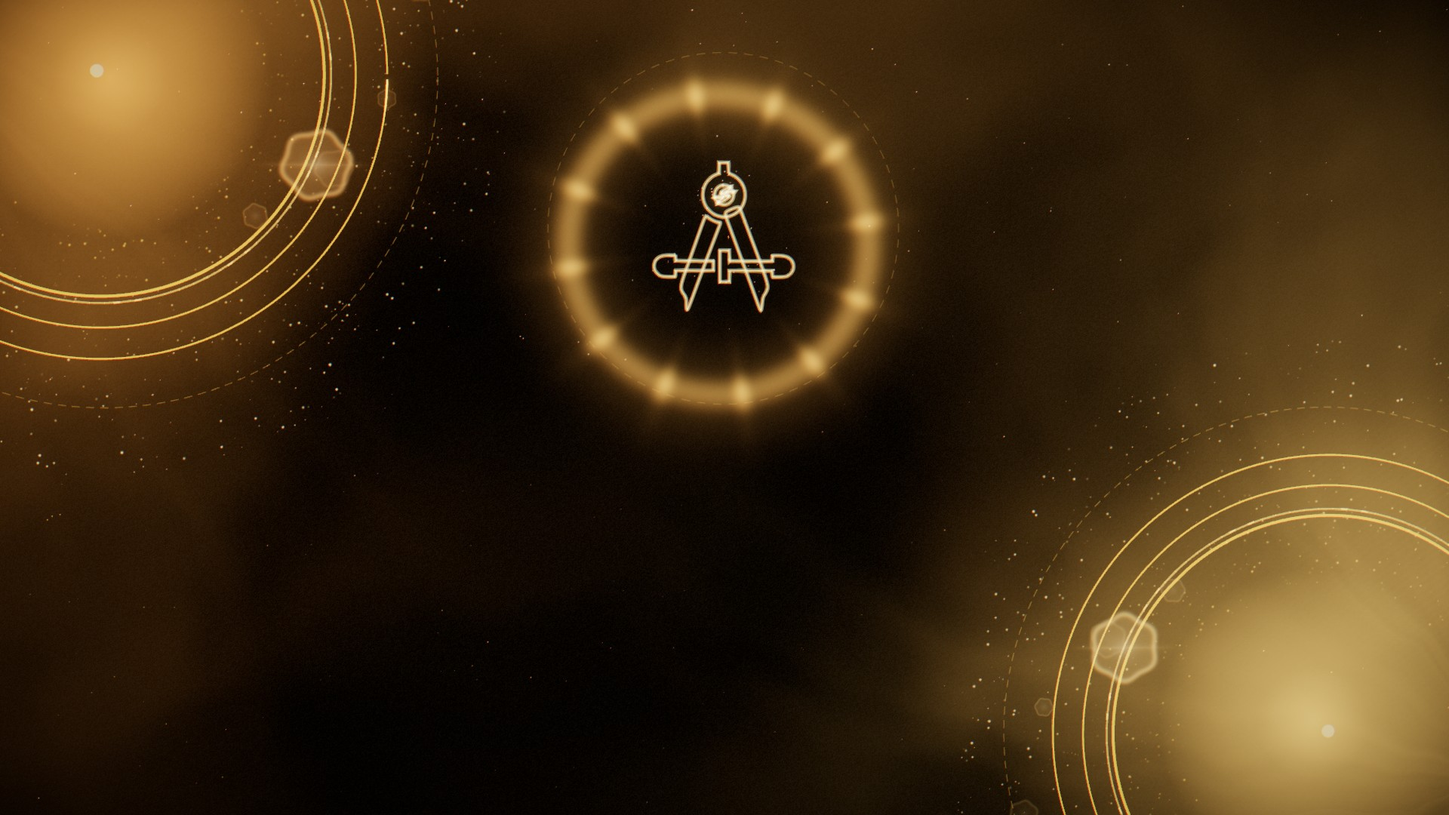
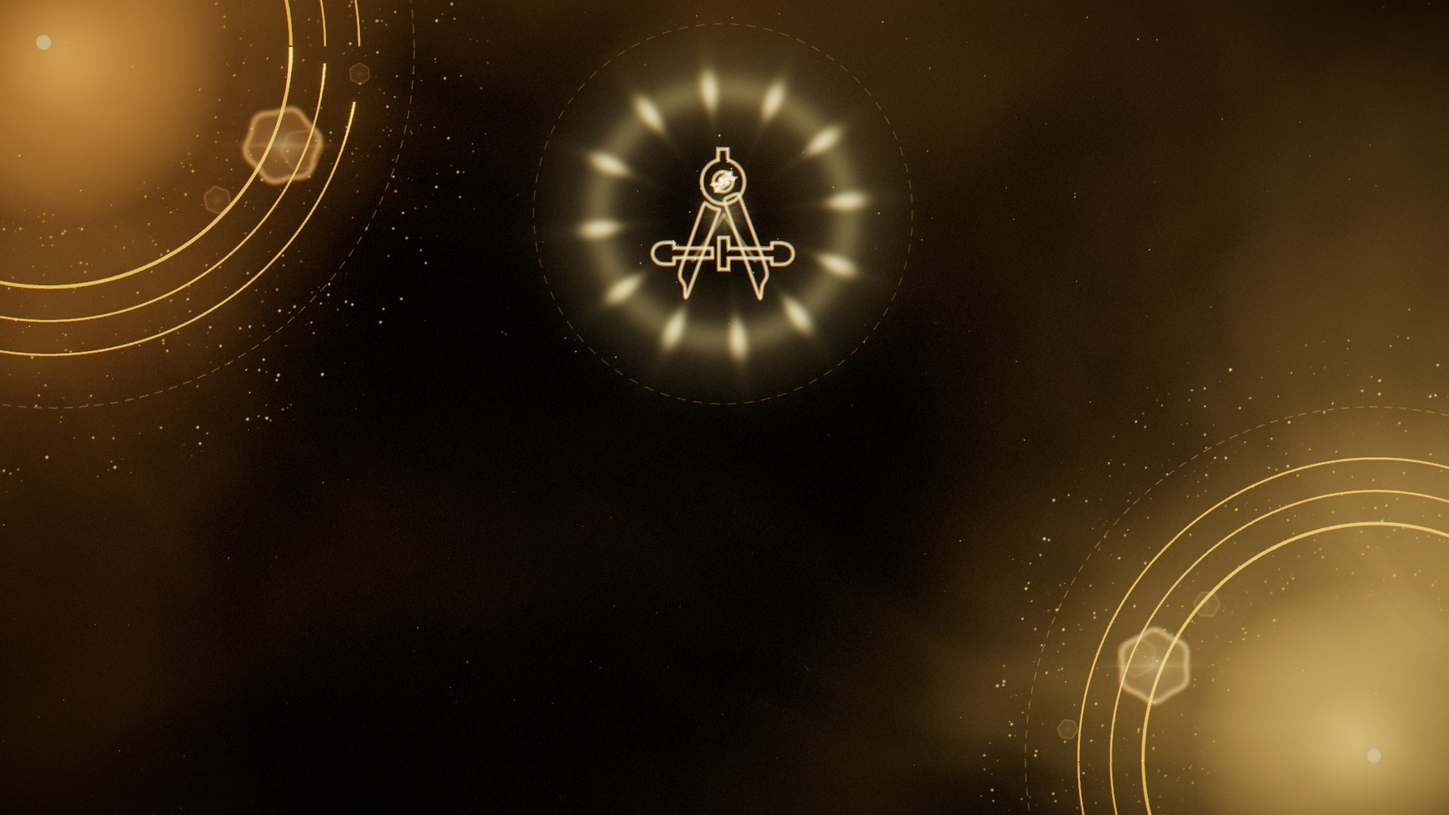
Refine intro opening and finale accents

diff --git a/src/opening-pulse.js b/src/opening-pulse.js
@@ -1,7 +1,8 @@
 import * as THREE from "three";
 
-// Только для первого ролика: циркуль становится источником расходящегося
-// золотого светового фронта в момент превращения чертежа в металл.
+// Только для первого ролика. Один полноэкранный аддитивный слой ведёт три
+// связанных такта: игла света находит точку чертежа, превращение в золото
+// отпускает световую волну, последняя буква запирает композицию штрихом.
 // Плоскость за знаком: не заслоняет гравировку и никогда не белит титры.
 const vertex = /* glsl */ `
   varying vec2 vUv;
@@ -10,51 +11,131 @@ const vertex = /* glsl */ `
     gl_Position = projectionMatrix * modelViewMatrix * vec4(position, 1.0);
   }
 `;
+
 const fragment = /* glsl */ `
+  precision highp float;
   varying vec2 vUv;
   uniform float uTravel;
   uniform float uEnergy;
+  uniform float uTrace;
+  uniform float uTraceTravel;
+  uniform float uSeal;
+  uniform float uSealTravel;
+  uniform vec2 uWaveCenter;
+  uniform vec2 uTraceTarget;
   uniform vec3 uGold;
+
+  float segmentDistance(vec2 p, vec2 a, vec2 b) {
+    vec2 ab = b - a;
+    float h = clamp(dot(p - a, ab) / max(dot(ab, ab), 1e-6), 0.0, 1.0);
+    return length(p - a - ab * h);
+  }
+
   void main() {
-    vec2 p = (vUv - 0.5) * vec2(7.4, 5.0);
-    float r = length(p);
-    float a = atan(p.y, p.x);
+    float cueStrength = uEnergy + uTrace + uSeal;
+    if (cueStrength < 0.0001) discard;
+
+    // Мировые координаты относительно центра кадра; плоскость неподвижна,
+    // поэтому подпись и холодный старт не дрейфуют вместе с логотипом.
+    vec2 p = (vUv - 0.5) * vec2(9.6, 5.4);
+    vec2 q = p - uWaveCenter;
+    float r = length(q);
+    float a = atan(q.y, q.x);
+
+    // 1. Игла света приходит из верхнего левого источника точно в первую
+    // точку построительной окружности. Свет живёт на конце иглы, не в кадре.
+    vec2 source = vec2(-4.35, 2.35);
+    vec2 target = uTraceTarget;
+    vec2 tip = mix(source, target, max(uTraceTravel, 0.001));
+    vec2 shaft = tip - source;
+    float along = clamp(dot(p - source, shaft) / max(dot(shaft, shaft), 1e-6), 0.0, 1.0);
+    float needle = 1.0 - smoothstep(0.004, 0.013, segmentDistance(p, source, tip));
+    float tipHalo = exp(-pow(length(p - tip) / 0.13, 2.0));
+    float tipCore = exp(-pow(length(p - tip) / 0.028, 2.0));
+    float puncture = exp(-pow((length(p - target) - 0.09) * 52.0, 2.0)) *
+      smoothstep(0.76, 1.0, uTraceTravel);
+    float traceLight = (needle * 0.19 * (0.3 + 0.7 * along) +
+      tipHalo * 0.30 + tipCore * 0.52 + puncture * 0.16) * uTrace;
+
+    // 2. Волна раскрытия: не сплошной ореол, а фронт из двенадцати лучей и две
+    // тонкие направляющие, повторяющие разведённые ножки циркуля.
     float front = 0.14 + uTravel * 2.35;
     float edge = exp(-pow((r - front) * 11.0, 2.0));
     float atmosphere = exp(-pow((r - front) * 3.2, 2.0));
-    // 12 мягких лучей идут за волной, как разметка циркулем, а не вспышка
-    // поверх всего кадра. Их движение привязано только к абсолютному времени.
     float rays = pow(0.5 + 0.5 * cos(a * 12.0 - uTravel * 5.0), 8.0);
-    float light = edge * (0.55 + 0.45 * rays) + atmosphere * 0.13;
-    gl_FragColor = vec4(uGold * (0.7 + 0.3 * rays), light * uEnergy);
+    float ring = edge * (0.18 + 0.82 * rays) + atmosphere * 0.10;
+    float reach = max(uTravel, 0.001);
+    float leftLeg = 1.0 - smoothstep(0.004, 0.018,
+      segmentDistance(q, vec2(0.0), vec2(-0.72, -1.05) * reach));
+    float rightLeg = 1.0 - smoothstep(0.004, 0.018,
+      segmentDistance(q, vec2(0.0), vec2(0.72, -1.05) * reach));
+    float legs = (leftLeg + rightLeg) * exp(-r * 0.62) * 0.30;
+    float heart = exp(-r * r * 75.0) * 0.20;
+    float waveLight = (ring + legs + heart) * uEnergy;
+
+    // 3. Подпись: из центра разводится тонкая линия и мягкое перо проходит
+    // по строке. Слой позади букв, поэтому текст остаётся контрастным.
+    float titleY = p.y + 0.27;
+    float halfSpan = mix(0.12, 3.05, uSealTravel);
+    float spanMask = 1.0 - smoothstep(halfSpan, halfSpan + 0.08, abs(p.x));
+    float hairline = exp(-pow(titleY * 155.0, 2.0)) * spanMask * 0.30;
+    float ends = exp(-pow((abs(p.x) - halfSpan) * 30.0, 2.0)) *
+      exp(-pow(titleY * 32.0, 2.0)) * 0.44;
+    float penX = mix(-2.85, 2.85, uSealTravel);
+    float pen = exp(-pow((p.x - penX) * 8.0, 2.0)) *
+      exp(-pow(titleY * 17.0, 2.0)) * 0.17;
+    float sealLight = (hairline + ends + pen) * uSeal;
+
+    float alpha = clamp(traceLight + waveLight + sealLight, 0.0, 1.0);
+    vec3 color = uGold * (0.72 + 0.28 * rays);
+    color = mix(color, vec3(1.0, 0.87, 0.63),
+      clamp(tipCore * 0.34 + (ends + pen) * 0.12, 0.0, 0.5));
+    gl_FragColor = vec4(color, alpha);
   }
 `;
 
+/** @param {string} [color] — цвет из палитры активной сцены. */
 export class OpeningPulse {
-  constructor() {
+  constructor(color = "#e0b25a") {
     this.uniforms = {
       uTravel: { value: 0 },
       uEnergy: { value: 0 },
-      uGold: { value: new THREE.Color(0xf8bc67) },
+      uTrace: { value: 0 },
+      uTraceTravel: { value: 0 },
+      uSeal: { value: 0 },
+      uSealTravel: { value: 0 },
+      uWaveCenter: { value: new THREE.Vector2(0, 1.1) },
+      uTraceTarget: { value: new THREE.Vector2(-0.76, 1.86) },
+      uGold: { value: new THREE.Color(color) },
     };
     this.mesh = new THREE.Mesh(
-      new THREE.PlaneGeometry(7.4, 5.0),
+      new THREE.PlaneGeometry(9.6, 5.4),
       new THREE.ShaderMaterial({
-        uniforms: this.uniforms, vertexShader: vertex, fragmentShader: fragment,
-        transparent: true, depthTest: false, depthWrite: false,
-        blending: THREE.AdditiveBlending, toneMapped: false,
+        uniforms: this.uniforms,
+        vertexShader: vertex,
+        fragmentShader: fragment,
+        transparent: true,
+        depthTest: false,
+        depthWrite: false,
+        blending: THREE.AdditiveBlending,
+        toneMapped: false,
       })
     );
-    this.mesh.position.set(0, 1.1, -1);
+    this.mesh.position.set(0, 0, -1);
     this.mesh.renderOrder = -2;
     this.mesh.frustumCulled = false;
     this.mesh.visible = false;
   }
 
-  update(cue, y) {
-    this.mesh.visible = cue.energy > 0.001;
-    this.mesh.position.y = y;
+  update(cue, waveCenter, traceTarget) {
+    this.mesh.visible = Math.max(cue.energy, cue.trace, cue.seal) > 0.001;
     this.uniforms.uTravel.value = cue.travel;
     this.uniforms.uEnergy.value = cue.energy;
+    this.uniforms.uTrace.value = cue.trace;
+    this.uniforms.uTraceTravel.value = cue.traceTravel;
+    this.uniforms.uSeal.value = cue.seal;
+    this.uniforms.uSealTravel.value = cue.sealTravel;
+    this.uniforms.uWaveCenter.value.set(waveCenter.x, waveCenter.y);
+    this.uniforms.uTraceTarget.value.set(traceTarget.x, traceTarget.y);
   }
 }

diff --git a/src/timeline.js b/src/timeline.js
@@ -1,4 +1,6 @@
 // Чистая модель фаз цикла; используется и в сцене, и в тестах.
+import { CAP_MAX } from "./caption.js";
+
 const clamp01 = (x) => Math.min(1, Math.max(0, x));
 const smooth = (a, b, x) => {
   const t = clamp01((x - a) / (b - a));
@@ -61,12 +63,18 @@ export function computePhase(t, tl) {
   return { name, draw, reveal, outline, fill, emergeT, grow, local, cycle, rings };
 }
 
-/** Фирменный жест: точка обводит орбиту и передаёт движение контуру логотипа. */
-export function plotSequence(phase, tl) {
+/** Общие такты построительной точки: игла интро приходит ровно в start. */
+export function plotTiming(tl) {
   const D = tl.drawDuration, E = tl.emergeDuration;
   const start = Math.min(0.32, D * 0.12);
   const end = Math.max(start + 0.1, D * 0.60);
   const transferEnd = Math.max(end + 0.05, D * 0.83);
+  return { D, E, start, end, transferEnd };
+}
+
+/** Фирменный жест: точка обводит орбиту и передаёт движение контуру логотипа. */
+export function plotSequence(phase, tl) {
+  const { D, E, start, end, transferEnd } = plotTiming(tl);
   const sweep = smooth(start, end, phase.local);
   const transfer = smooth(end, transferEnd, phase.local);
   const opacity = smooth(start, start + Math.min(0.35, D * 0.14), phase.local) *
@@ -88,9 +96,9 @@ export function heroGlint(phase, tl) {
   return { intensity, position };
 }
 
-/** Первый ролик: при передаче построительной линии знаку световая волна
- * разбегается по сцене и камера плавно входит в готовую композицию.
- * Огибающая тождественно нулевая на удержании и на пиксельном шве. */
+/** Первый ролик: три связанных такта — игла света находит точку чертежа,
+ * превращение в золото отпускает световую волну, а последняя буква запирает
+ * композицию коротким штрихом. Все огибающие нулевые на удержании и на шве. */
 export function openingAccent(phase, tl) {
   const start = tl.drawDuration * 0.92;
   const span = Math.max(0.25, tl.emergeDuration * 0.77);
@@ -98,7 +106,24 @@ export function openingAccent(phase, tl) {
   const energy = smooth(0, 0.18, travel) * (1 - smooth(0.60, 1, travel));
   const dolly = smooth(tl.drawDuration * 0.3, start, phase.local) *
     (1 - smooth(start, start + tl.emergeDuration * 0.95, phase.local));
-  return { travel, energy, dolly };
+  // Холодный старт: тонкая чертёжная игла входит из верхнего левого света
+  // и приходит в точку будущей окружности раньше, чем линия начинает движение.
+  const traceArrival = plotTiming(tl).start;
+  const traceSpan = Math.max(0.12, traceArrival - 0.06);
+  const traceTravel = clamp01((phase.local - 0.06) / traceSpan);
+  // Игла должна дойти до точки и только потом раствориться: огибающая гаснет
+  // по абсолютному времени после прибытия, а не до конца travel.
+  const trace = smooth(0.05, 0.25, traceTravel) *
+    (1 - smooth(traceArrival, traceArrival + tl.drawDuration * 0.12, phase.local));
+  // Финал: подпись заканчивается мягким проходом света по её строке. Такт
+  // привязан к общей длине подписи, а не к жёстко зашитому кадру.
+  const captionStart = tl.drawDuration + tl.emergeDuration * 0.5;
+  const sealEnd = captionStart + CAP_MAX;
+  const sealStart = sealEnd - Math.min(0.95, Math.max(0.3, tl.holdDuration * 0.14));
+  const sealTravel = clamp01((phase.local - sealStart) / (sealEnd - sealStart));
+  const seal = smooth(sealStart, sealStart + 0.14, phase.local) *
+    (1 - smooth(sealEnd - 0.28, sealEnd, phase.local));
+  return { travel, energy, dolly, trace, traceTravel, seal, sealTravel };
 }
 
 /** Угловой свет уступает внимание логотипу и тексту, пока дописывается название. */

diff --git a/src/intro-scene.js b/src/intro-scene.js
@@ -1,26 +1,56 @@
 import { LogoScene } from "./scene.js";
 import { OpeningPulse } from "./opening-pulse.js";
+import { START_ANGLE } from "./plotter.js";
 import { computePhase, openingAccent } from "./timeline.js";
 
-/** №1 — интро, не экран ожидания. Один режиссёрский жест: чертёжная точка
- * передаёт движение символу, а переход контура в металл запускает волну
- * света и мягкий наезд камеры. В остальные сцены этот акцент не протекает. */
+/** №1 — интро, не экран ожидания. Три такта одной причинно-следственной
+ * линии: игла света находит точку чертежа, переход контура в металл
+ * отпускает волну, законченная подпись запирает композицию. Акценты
+ * вводятся только здесь и не протекают в остальные сцены. */
 export class IntroScene extends LogoScene {
   constructor(canvas, cfg) {
     super(canvas, cfg);
-    this.openingPulse = new OpeningPulse();
+    this.openingPulse = new OpeningPulse(cfg.colors.goldHighlight);
     this.scene.add(this.openingPulse.mesh);
+    this._waveCenter = { x: 0, y: 0 };
+    this._traceAnchor = { x: 0, y: 0 };
+  }
+
+  // На старте камера ещё наклонена базовой сценой. Проекция луча из камеры
+  // на плоскость слоя сохраняет точное совпадение световой точки с чертежом
+  // в экранном пространстве — без переноса самого эффекта в систему камеры.
+  _projectToPulse(out, x, y, z) {
+    const cam = this.camera.position;
+    const k = (this.openingPulse.mesh.position.z - cam.z) / (z - cam.z);
+    out.x = cam.x + (x - cam.x) * k;
+    out.y = cam.y + (y - cam.y) * k;
+    return out;
   }
 
   update(t, dt) {
     super.update(t, dt);
     const cue = openingAccent(computePhase(t, this.cfg.timeline), this.cfg.timeline);
-    this.openingPulse.update({ ...cue, energy: cue.energy * 0.68 }, this.logo.root.position.y);
-    // Всплеск следует за начавшимся проявлением металла; не повторяет
-    // длинный блик на титре, который появляется позже по отдельному такту.
-    this.glintLight.intensity += cue.energy * 3.2;
-    this.topLight.intensity += cue.energy * 1.8;
-    this.camera.position.z += cue.dolly * 0.42;
+    // Всплеск следует за начавшимся проявлением металла; финальный штрих
+    // тише и не повторяет длинный блик, который проходит раньше по граням.
+    this.glintLight.intensity += cue.energy * 3.2 + cue.seal * 0.45;
+    this.topLight.intensity += cue.energy * 1.8 + cue.seal * 0.3;
+    // Отрицательное смещение z — действительно наезд, а не отъезд камеры.
+    this.camera.position.z -= cue.dolly * 0.42 + cue.seal * 0.025;
     this.camera.lookAt(0, 0, 0);
+
+    const centerY = this.cfg.logo.offsetY ?? 0;
+    const radius = this.cfg.rings.radius * 0.8;
+    const constructionZ = -0.08; // Plotter.group.position.z
+    this._projectToPulse(this._waveCenter, 0, centerY, constructionZ);
+    this._projectToPulse(this._traceAnchor,
+      Math.cos(START_ANGLE) * radius,
+      Math.sin(START_ANGLE) * radius + centerY,
+      constructionZ);
+    this.openingPulse.update({
+      ...cue,
+      energy: cue.energy * 0.68,
+      trace: cue.trace * 0.9,
+      seal: cue.seal * 0.65,
+    }, this._waveCenter, this._traceAnchor);
   }
 }

diff --git a/src/caption.js b/src/caption.js
@@ -4,7 +4,8 @@ const smooth = (a, b, x) => {
   const k = clamp((x - a) / (b - a), 0, 1);
   return k * k * (3 - 2 * k);
 };
-const CAP_MAX = 2.9;
+/** Полная длина последовательности подписи в её собственных единицах. */
+export const CAP_MAX = 2.9;
 
 /** Общая для DOM и записи в canvas маска: каждая буква обводится, затем заполняется. */
 export function glyphReveal(line, index, count) {

diff --git a/src/plotter.js b/src/plotter.js
@@ -2,7 +2,7 @@ import * as THREE from "three";
 import { OUTPUT } from "./scenes/catalog.js";
 import { plotSequence } from "./timeline.js";
 
-const START_ANGLE = Math.PI * 0.75; // верхняя левая точка — связь с первым кольцом
+export const START_ANGLE = Math.PI * 0.75; // верхняя левая точка — связь с первым кольцом
 const TAU = Math.PI * 2;
 const SAMPLES = 256;
 const VERT = /* glsl */ `

diff --git a/docs/animatic.md b/docs/animatic.md
@@ -5,29 +5,29 @@
 | Время | Ключевой кадр / действие | Звук, если нужен |
 | --- | --- | --- |
 | 0,00–0,60 | Тёмный кадр. Пространство для шва, без логотипа и надписи. | Тишина. |
-| 0,60–1,25 | От верхнего левого света появляется точка циркуля. Она начинает очерчивать центральную окружность **раньше** символа; крайние кольца чертятся медленными дугами, за ними постепенно открываются риски и разметка. | Очень тихий сухой «щелчок» чертёжного инструмента. |
+| 0,60–1,25 | Из верхнего левого света входит тонкая световая игла и к ~0,91 с ставит первую точку построительной окружности. Она гаснет, а тот же наконечник начинает очерчивать окружность **раньше** символа; крайние кольца чертятся медленными дугами, за ними постепенно открываются риски и разметка. [Кадр передачи](intro-overture.jpg). | Очень тихий сухой «щелчок» в момент касания иглы. |
 | 1,25–2,16 | Точка замыкает окружность, оставляя тонкий золотой построительный след. | Начинается один мягкий восходящий тон. |
 | 2,16–3,50 | Тот же световой наконечник переходит к первой точке SVG-контура и запускает его прорисовку; построительная окружность гаснет. | Тон достигает пика в момент передачи и затухает. |
-| 3,50–5,60 | Контур приобретает объём: **первый ролик открывается ударом света от циркуля** — тёплая кольцевая волна расширяется за знаком и растворяется, камера наезжает на металл и возвращается к композиции. Радиальный фронт открывает грани. Название последовательно гравируется **по буквам контуром**, затем каждая буква получает заливку. У крайних колец — короткие солнечные блики и мягкие кружки боке. [Кадр импульса](intro-impact.jpg). | Короткое металлическое раскрытие на переходе в золото. |
-| 5,60–7,10 | Один короткий тёплый блик проходит по символу; разделители, подзаголовок и дата тоже сначала пишутся по буквам контуром, потом заполняются. Угловой свет уступает центру; к ~6,7 с весь титр читаем. | Звук затухает до начала удержания. |
-| 7,10–12,40 | Полная композиция: читаемые символ, название, подзаголовок, дата. Световой фронт уже исчез, остаётся едва заметное дыхание логотипа и среды. | Без повторяющегося акцента: это удержание вступительного титра. |
+| 3,50–5,60 | Контур приобретает объём: **первый ролик открывается ударом света от циркуля** — не сплошной ореол, а фронт из двенадцати мягких лучей и двух тонких направляющих ножек расширяется за знаком и растворяется; камера наезжает на металл и возвращается к композиции. Радиальный фронт открывает грани. Название последовательно гравируется **по буквам контуром**, затем каждая буква получает заливку. У крайних колец — короткие солнечные блики и мягкие кружки боке. [Кадр импульса](intro-impact.jpg). | Короткое металлическое раскрытие на переходе в золото. |
+| 5,60–7,30 | Один короткий тёплый блик проходит по символу; разделители, подзаголовок и дата тоже сначала пишутся по буквам контуром, потом заполняются. В финале подписи (~6,35–7,30 с) из центра названия расходится тонкий штрих, мягкое перо проходит по строке и камера чуть фиксируется; акцент исчезает раньше удержания. Угловой свет уступает центру; к ~7,3 с весь титр читаем. [Кадр финального штриха](intro-signature.jpg). | Тихое затухание к точке полной композиции, без нового «удара». |
+| 7,30–12,40 | Полная композиция: читаемые символ, название, подзаголовок, дата. Световой фронт и финальный штрих уже исчезли, остаётся едва заметное дыхание логотипа и среды. | Без повторяющегося акцента: это удержание вступительного титра. |
 | 12,40–13,78 | Дата → подзаголовок → название уходят последовательно. Золото остаётся на мгновение дольше слов. | Тихое обратное затухание, без нового «удара». |
 | 13,78–14,70 | Золотая поверхность уходит; детали контура растворяются, свет отматывает линию оголовка к первой точке чертежа. | Мягкая конечная точка. |
 | 14,70–15,90 | Тёмная пауза, последний и первый кадры петли совпадают. | Тишина. |
 
 ## Семь визуальных опорных кадров
 
-**1 · Точка и первый штрих, 1,10 с**
+**1 · Игла и первый штрих, 1,10 с**
 
-![Точка строит окружность](storyboard/01-plot.jpg)
+![Игла света передаёт движение построительной точке](storyboard/01-plot.jpg)
 
 **2 · Передача света, 2,86 с**
 
 ![Точка касается первой линии логотипа](storyboard/02-handoff.jpg)
 
-**3 · Прорисовка символа, 3,39 с**
+**3 · Контур и раскрытие металла, 3,39 с**
 
-![Контур циркуля после передачи движения](storyboard/03-engrave.jpg)
+![Лучи света расходятся за контуром циркуля](storyboard/03-engrave.jpg)
 
 **4 · Переход к золоту и названию, 4,76 с**
 
@@ -54,7 +54,7 @@
 
 ## Границы арт-дирекшена
 
-- Одна причинно-следственная линия: **свет → инструмент → символ → название**, а не независимые спецэффекты.
+- Одна причинно-следственная линия: **игла → окружность → символ → название**, а не независимые спецэффекты. Игла приходит ровно в стартовую точку `plotTiming(tl).start`; волна повторяет геометрию циркуля; финальный штрих завершает подпись и уходит до удержания.
 - Блик проходит по символу только при сборке надписи и затухает до её полного удержания. Угловой свет и движение фона становятся тише, когда текст готов.
 - Фактура золота только на металле; тонкая и отфильтрованная на мелких размерах, без муара.
 - Петля должна оставаться без заметного стыка и без звукового события в конце/начале.

diff --git a/docs/architecture.md b/docs/architecture.md
@@ -5,7 +5,7 @@
 - `src/scenes/catalog.js` — один формат 1920×1080, 60 FPS и **план** девяти видов. `waiting`, `brand`, `photo-pause` и `finale` имеют статус `ready`; виды №3–7 не выданы за работающие сцены.
 - `src/scenes/waiting.js` — параметры первой заставки, извлечённые из `src/config.js` без изменения значений. `config.js` остаётся совместимым с UI, JSON и прежними сохранёнными настройками браузера.
 - `src/runtime.js` — без DOM и WebGL: длительность цикла, `advance(elapsed)` с учётом паузы и скорости, независимый `renderAt(t)` через `update(t,dt)/render(dt)` адаптера.
-- `src/scene.js` — общий адаптер Three.js; `src/intro-scene.js` добавляет только для первого ролика (`waiting` — исторический внутренний id) однократную световую волну `src/opening-pulse.js` и небольшой наезд камеры в момент превращения контура в золото. `src/brand-scene.js` переиспользует его высококачественный рендерер и фазы первой заставки (чертёж → контур → металл → посимвольный титр → обратный выход), задаёт приглушённую вариацию колец, пыли и постоянно движущегося тёплого света; `src/contour-waves.js` из настоящих SVG-подконтуров делает затухающие волны за циркулем. Все движения зависят от абсолютного t, seek и покадровый WebM совпадают. Во всех трёх второстепенных видах циркуль центрирован над титрами и в DOM, и в экспортном canvas. `src/photo-pause-scene.js` добавляет рамку видоискателя, `src/finale-scene.js` последовательно открывает символ, название и фразу; чистые такты и защита шва находятся в `src/scenes/cues.js`. `src/main.js` выбирает адаптер по `?scene=waiting|brand|photo-pause|finale`, подключает движок и запись.
+- `src/scene.js` — общий адаптер Three.js; `src/intro-scene.js` добавляет только для первого ролика (`waiting` — исторический внутренний id) три детерминированных такта в `src/opening-pulse.js`: иглу света к первой точке чертежа, волну из лучей и направляющих при переходе в металл, финальный штрих по строке названия. Проекция световых точек на полноэкранный слой учитывает наклон камеры холодного старта; наезд камеры направлен к знаку. Все огибающие берутся из `openingAccent(phase, tl)` и обнуляются на удержании и шве. `src/brand-scene.js` переиспользует его высококачественный рендерер и фазы первой заставки (чертёж → контур → металл → посимвольный титр → обратный выход), задаёт приглушённую вариацию колец, пыли и постоянно движущегося тёплого света; `src/contour-waves.js` из настоящих SVG-подконтуров делает затухающие волны за циркулем. Все движения зависят от абсолютного t, seek и покадровый WebM совпадают. Во всех трёх второстепенных видах циркуль центрирован над титрами и в DOM, и в экспортном canvas. `src/photo-pause-scene.js` добавляет рамку видоискателя, `src/finale-scene.js` последовательно открывает символ, название и фразу; чистые такты и защита шва находятся в `src/scenes/cues.js`. `src/main.js` выбирает адаптер по `?scene=waiting|brand|photo-pause|finale`, подключает движок и запись.
 - `src/operator.js` — единый пульт, шкала точного seek, изменение длительности через holdDuration и явный переключатель ручного/автоматического режима. `main.js` снимает 1920×1080 композит уходящей сцены и растворяет его поверх нового WebGL-кадра за 0,9 с без перезагрузки и потери текста. Во время записи одного цикла ручной переход блокируется. `RECORDING_CHAIN` задаёт порядок однократной записи 01 → 02 → 08 → 09. **Основной экспорт:** `src/export-plan.js` вычисляет целочисленные границы сцен и 54-кадровые переходы; `src/offline-encoder.js` (WebCodecs + Mediabunny, MPL-2.0) ждёт backpressure кодера и ставит каждому кадру точный timestamp `k/60`, затем mux в WebM VP9. Весь файл рендерится в браузере медленнее реального времени при необходимости; пульт показывает прогресс и позволяет отменить. Прежняя MediaRecorder-сессия оставлена как legacy API для проверок, не основная кнопка экспорта. Панели и переходный DOM-оверлей не попадают в файл.
 - Единый `drawCompositeFrame` в `main.js` используется и браузерной записью WebM, и проверкой `compositeFrameAt(t)`. Последняя возвращает canvas реального размера, чтобы проверить наличие титра в экспорте.
 

diff --git a/README.md b/README.md
@@ -12,10 +12,10 @@
 
 ## Интро — первый ролик программы
 
-**№1 — открытие, не экран ожидания.** Откройте `?scene=intro` (старый `?scene=waiting` тоже работает). После короткой темноты световая точка намечает окружность тонкой лентой с коротким сужающимся хвостом → передаёт движение контуру циркуля → при превращении чертежа в объёмное золото от знака расходится световой фронт и камера мягко приближается → проявление из тени (радиальный шумовой фронт) → удержание с пульсацией и
+**№1 — открытие, не экран ожидания.** Откройте `?scene=intro` (старый `?scene=waiting` тоже работает). После короткой темноты из верхнего левого света приходит тонкая игла и ставит первую точку построительной окружности → её световой наконечник ведёт тонкую ленту с коротким сужающимся хвостом → передаёт движение контуру циркуля → при превращении чертежа в объёмное золото от знака расходится волна из мягких лучей и камера действительно наезжает на металл → проявление из тени → когда подпись закончена, короткий штрих запирает композицию → удержание с пульсацией и
 плавным увеличением → последовательный уход даты, подзаголовка и названия → уход золота →
 детали контура уходят, последняя дуга отматывается к первой точке → тёмная пауза → повтор.
-Первый ролик длится **15,3 с** и при экспорте цепочки воспроизводится один раз; в предпросмотре он зациклен для проверки шва. Полностью собранная композиция остаётся читаемой около **5,1 с** до начала ухода. [Кадр светового раскрытия](docs/intro-impact.jpg). Длительности фаз меняются в панели настроек. Буквы в каждой строке сначала по очереди гравируются тонким контуром, затем по очереди заполняются золотом; надписи слегка поднимаются на место. Крайние кольца медленно строятся дугами вместе с рисками, рядом на короткое время возникают солнечные блики и мягкое боке. Те же движения повторяются в браузерной записи. Время анимации не замедляется при падении частоты кадров.
+Первый ролик длится **15,3 с** и при экспорте цепочки воспроизводится один раз; в предпросмотре он зациклен для проверки шва. Полностью собранная композиция остаётся читаемой около **5,1 с** до начала ухода. Три контрольных кадра: [холодный старт](docs/intro-overture.jpg), [световое раскрытие](docs/intro-impact.jpg), [финальный штрих](docs/intro-signature.jpg). Длительности фаз меняются в панели настроек. Буквы в каждой строке сначала по очереди гравируются тонким контуром, затем по очереди заполняются золотом; надписи слегка поднимаются на место. Крайние кольца медленно строятся дугами вместе с рисками, рядом на короткое время возникают солнечные блики и мягкое боке. Те же движения повторяются в браузерной записи. Время анимации не замедляется при падении частоты кадров.
 
 ## Настройки
 ⚙ в правом верхнем углу (или клавиша S). Пробел — пауза. Двойной клик по ползунку — сброс.
